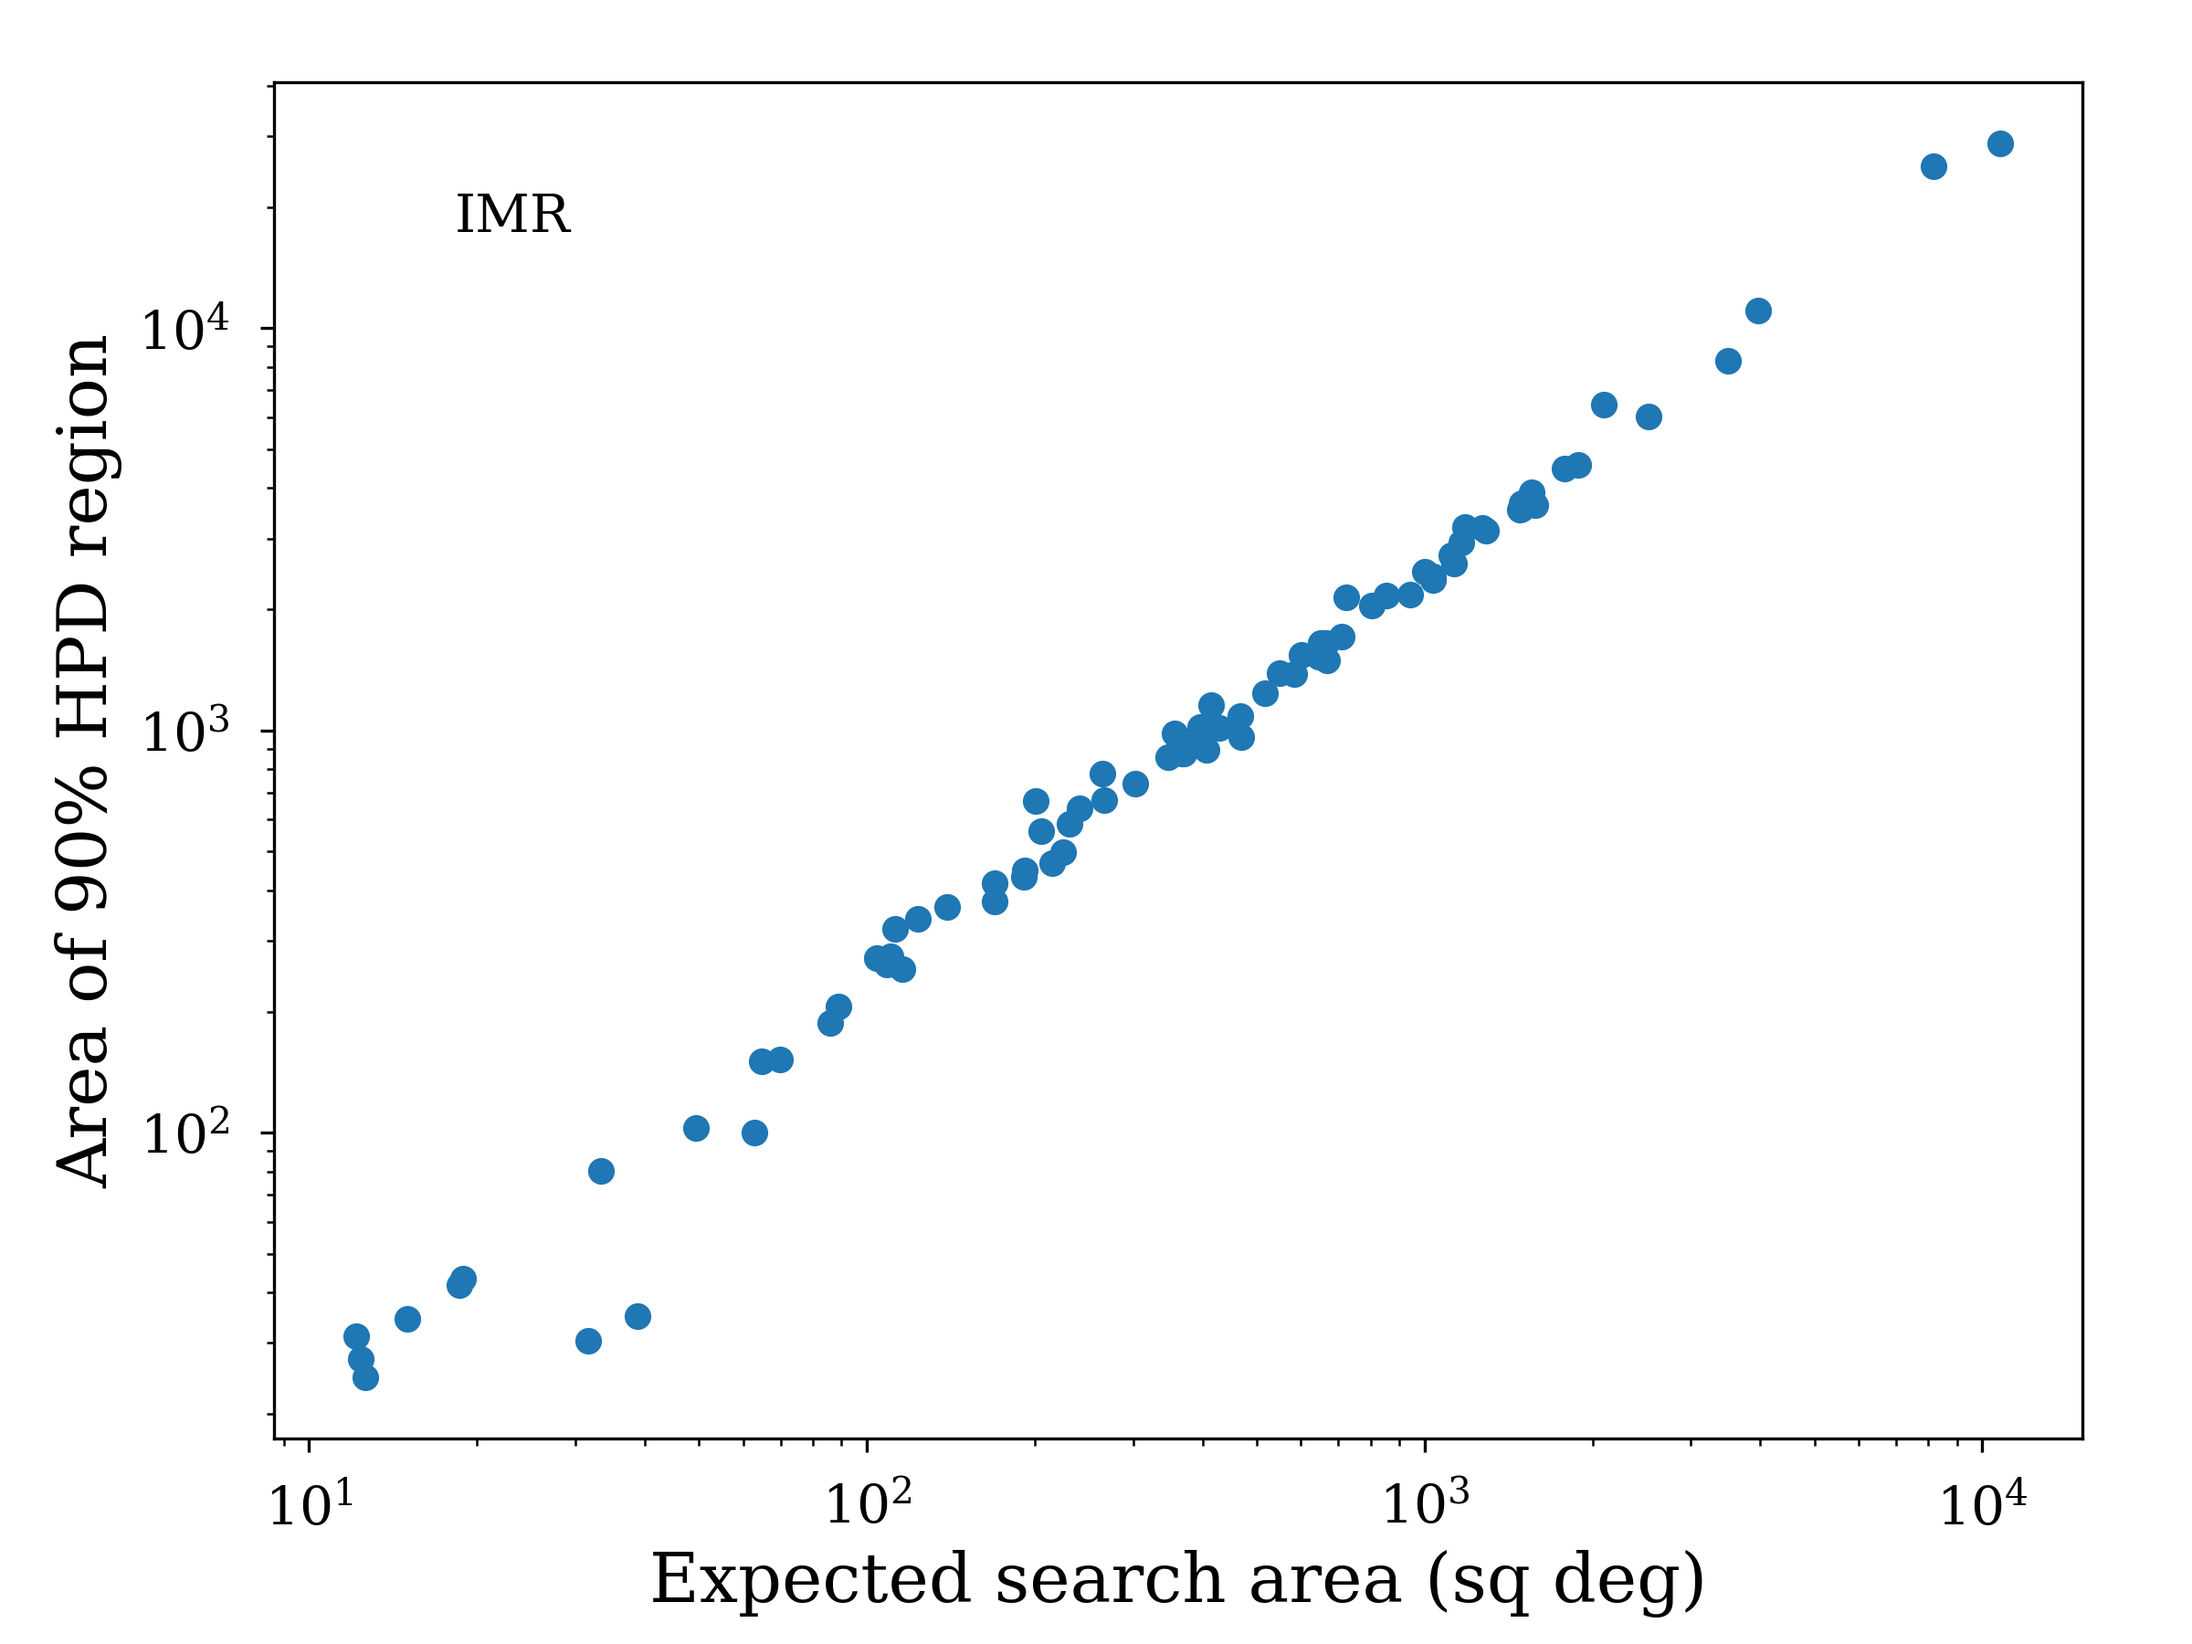
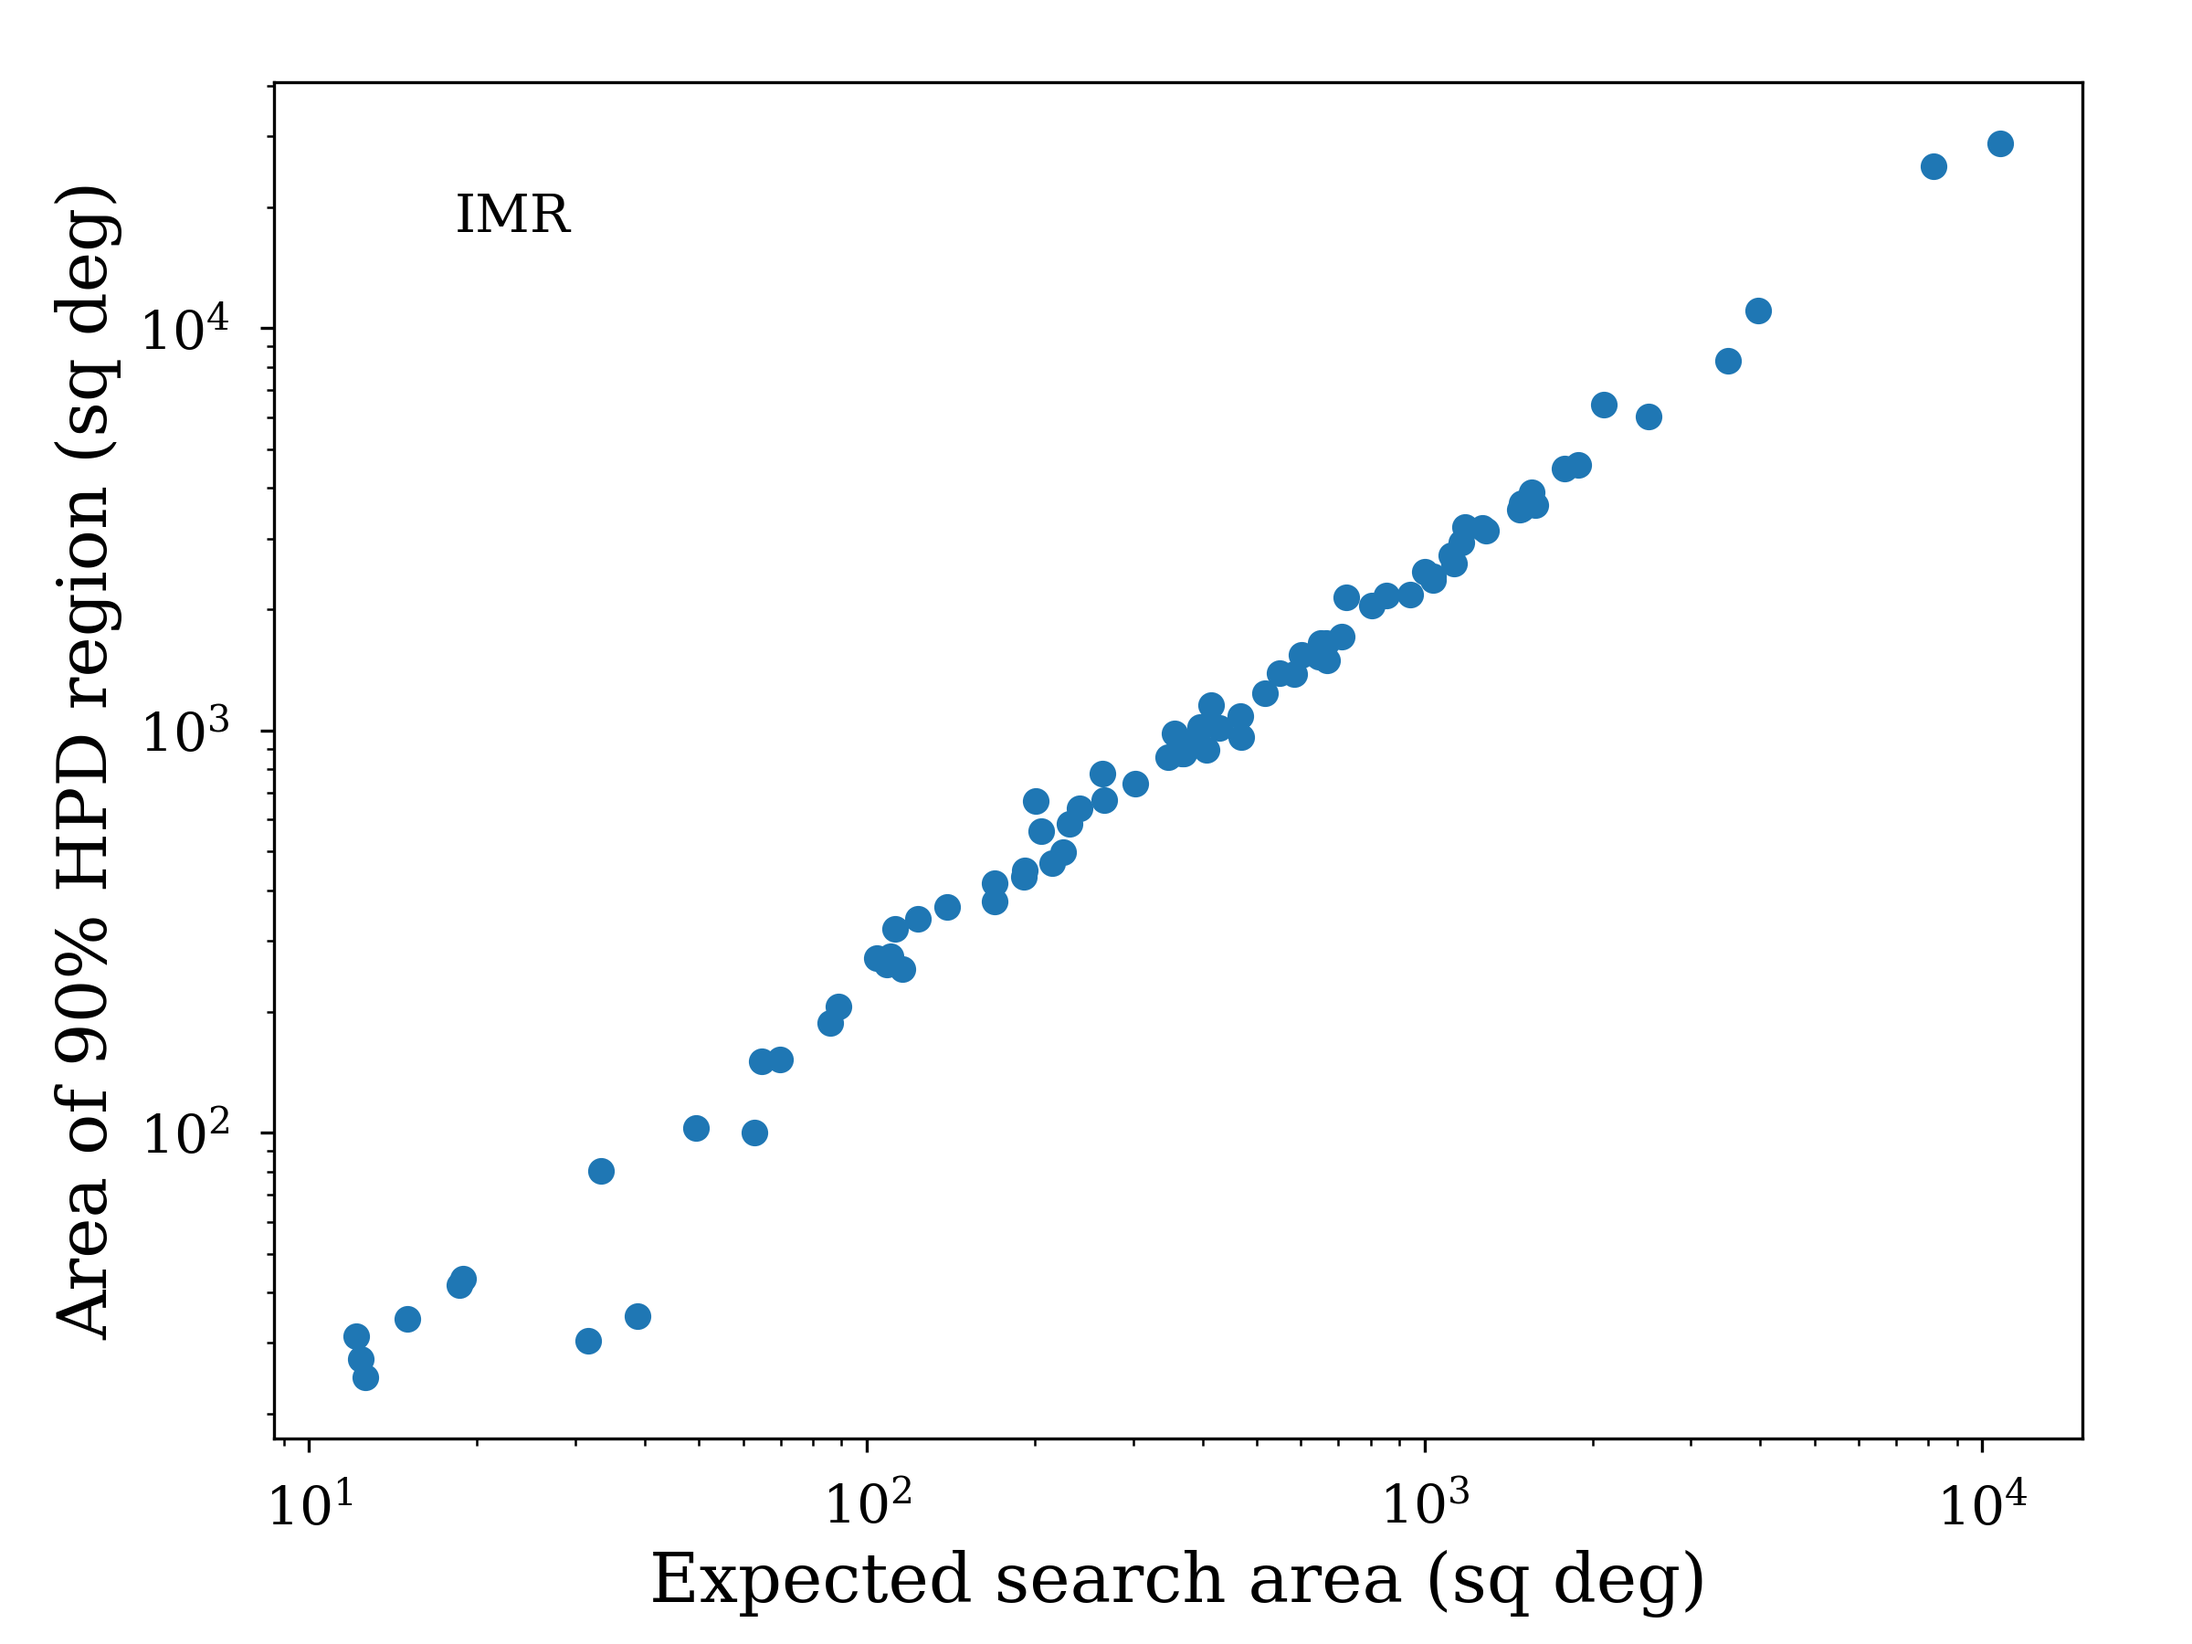
New hpd90 vs info-area plots; add units to HPD area axis

Changed region(s): [[0.0, 0.1244, 0.0625, 0.8089]]

diff --git a/docs/UQPlots-IMR_SEO/GWTC-confident-SkyMapUQ.html b/docs/UQPlots-IMR_SEO/GWTC-confident-SkyMapUQ.html
@@ -49,6 +49,8 @@
         <img src="exarea-hpd90-SEO.png" alt="exarea-hpd90-SEO.png"><br>
         <img src="exarea-level-IMR.png" alt="exarea-level-IMR.png"><br>
         <img src="exarea-level-SEO.png" alt="exarea-level-SEO.png"><br>
+        <img src="iarea-hpd90-IMR.png" alt="iarea-hpd90-IMR.png"><br>
+        <img src="iarea-hpd90-SEO.png" alt="iarea-hpd90-SEO.png"><br>
         <img src="area_ratios-IMR.png" alt="area_ratios-IMR.png"><br>
         <img src="area_ratios-SEO.png" alt="area_ratios-SEO.png"><br>
         <img src="exarea-histo-IMR.png" alt="exarea-histo-IMR.png"><br>
